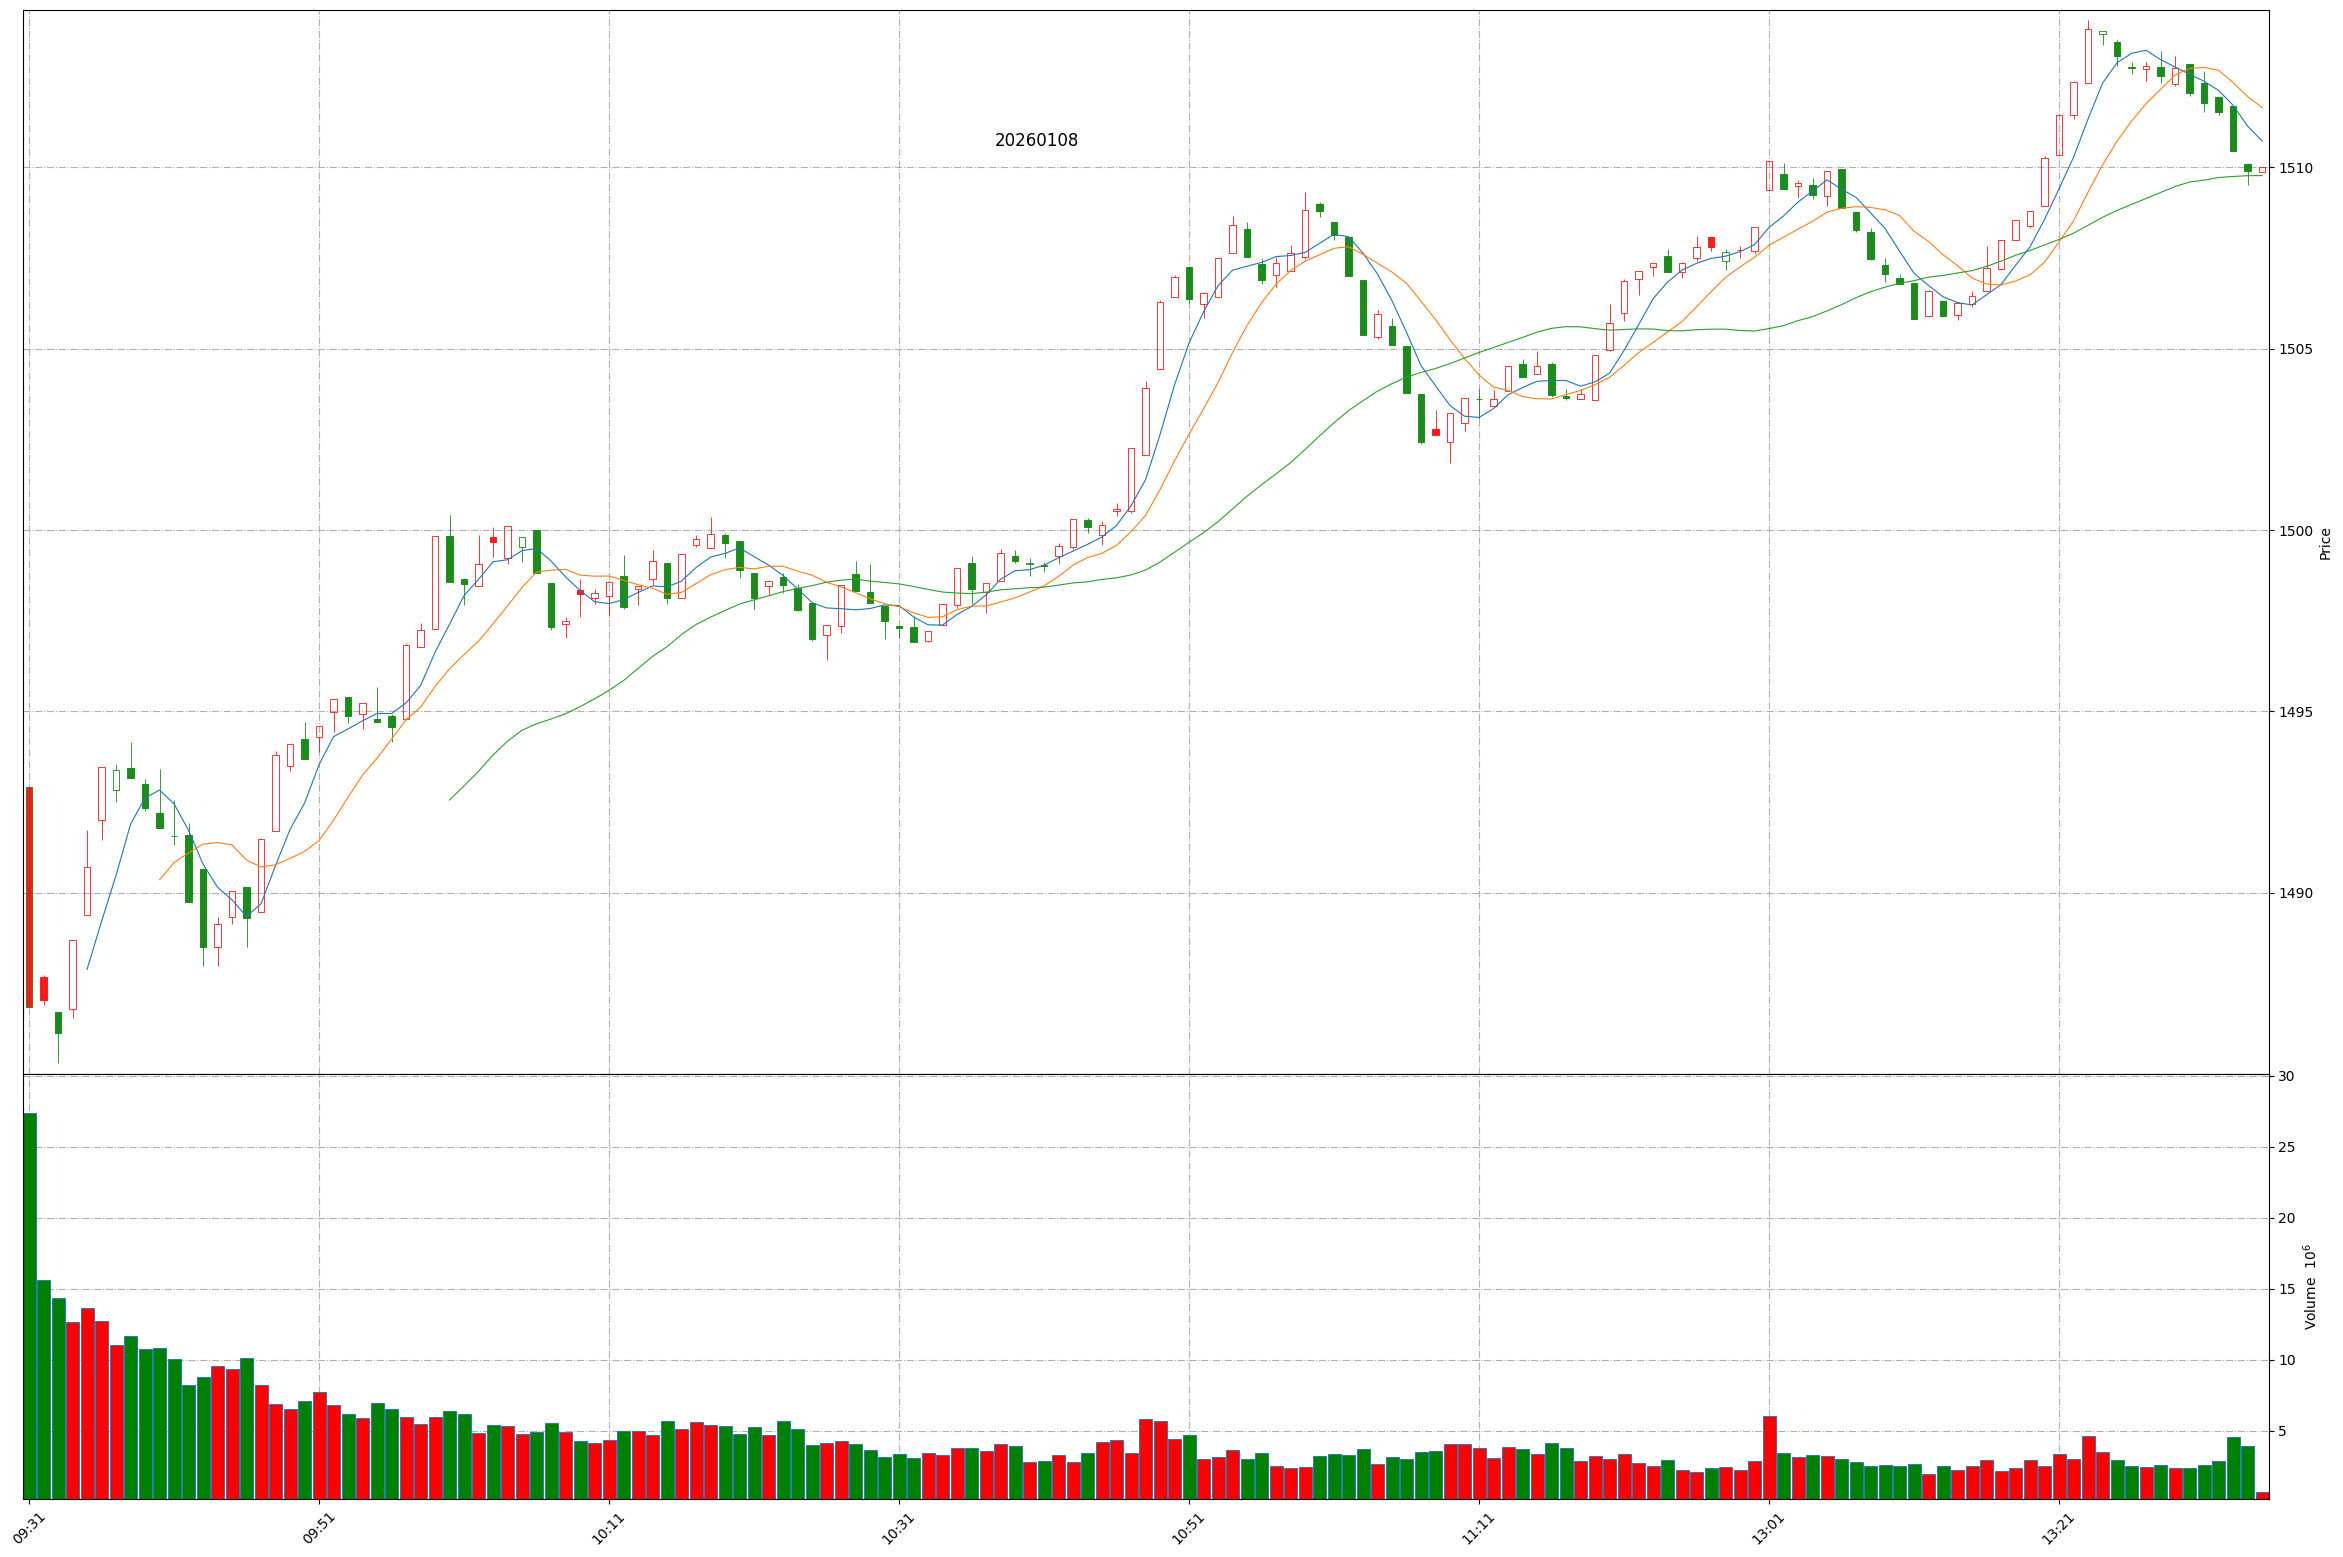
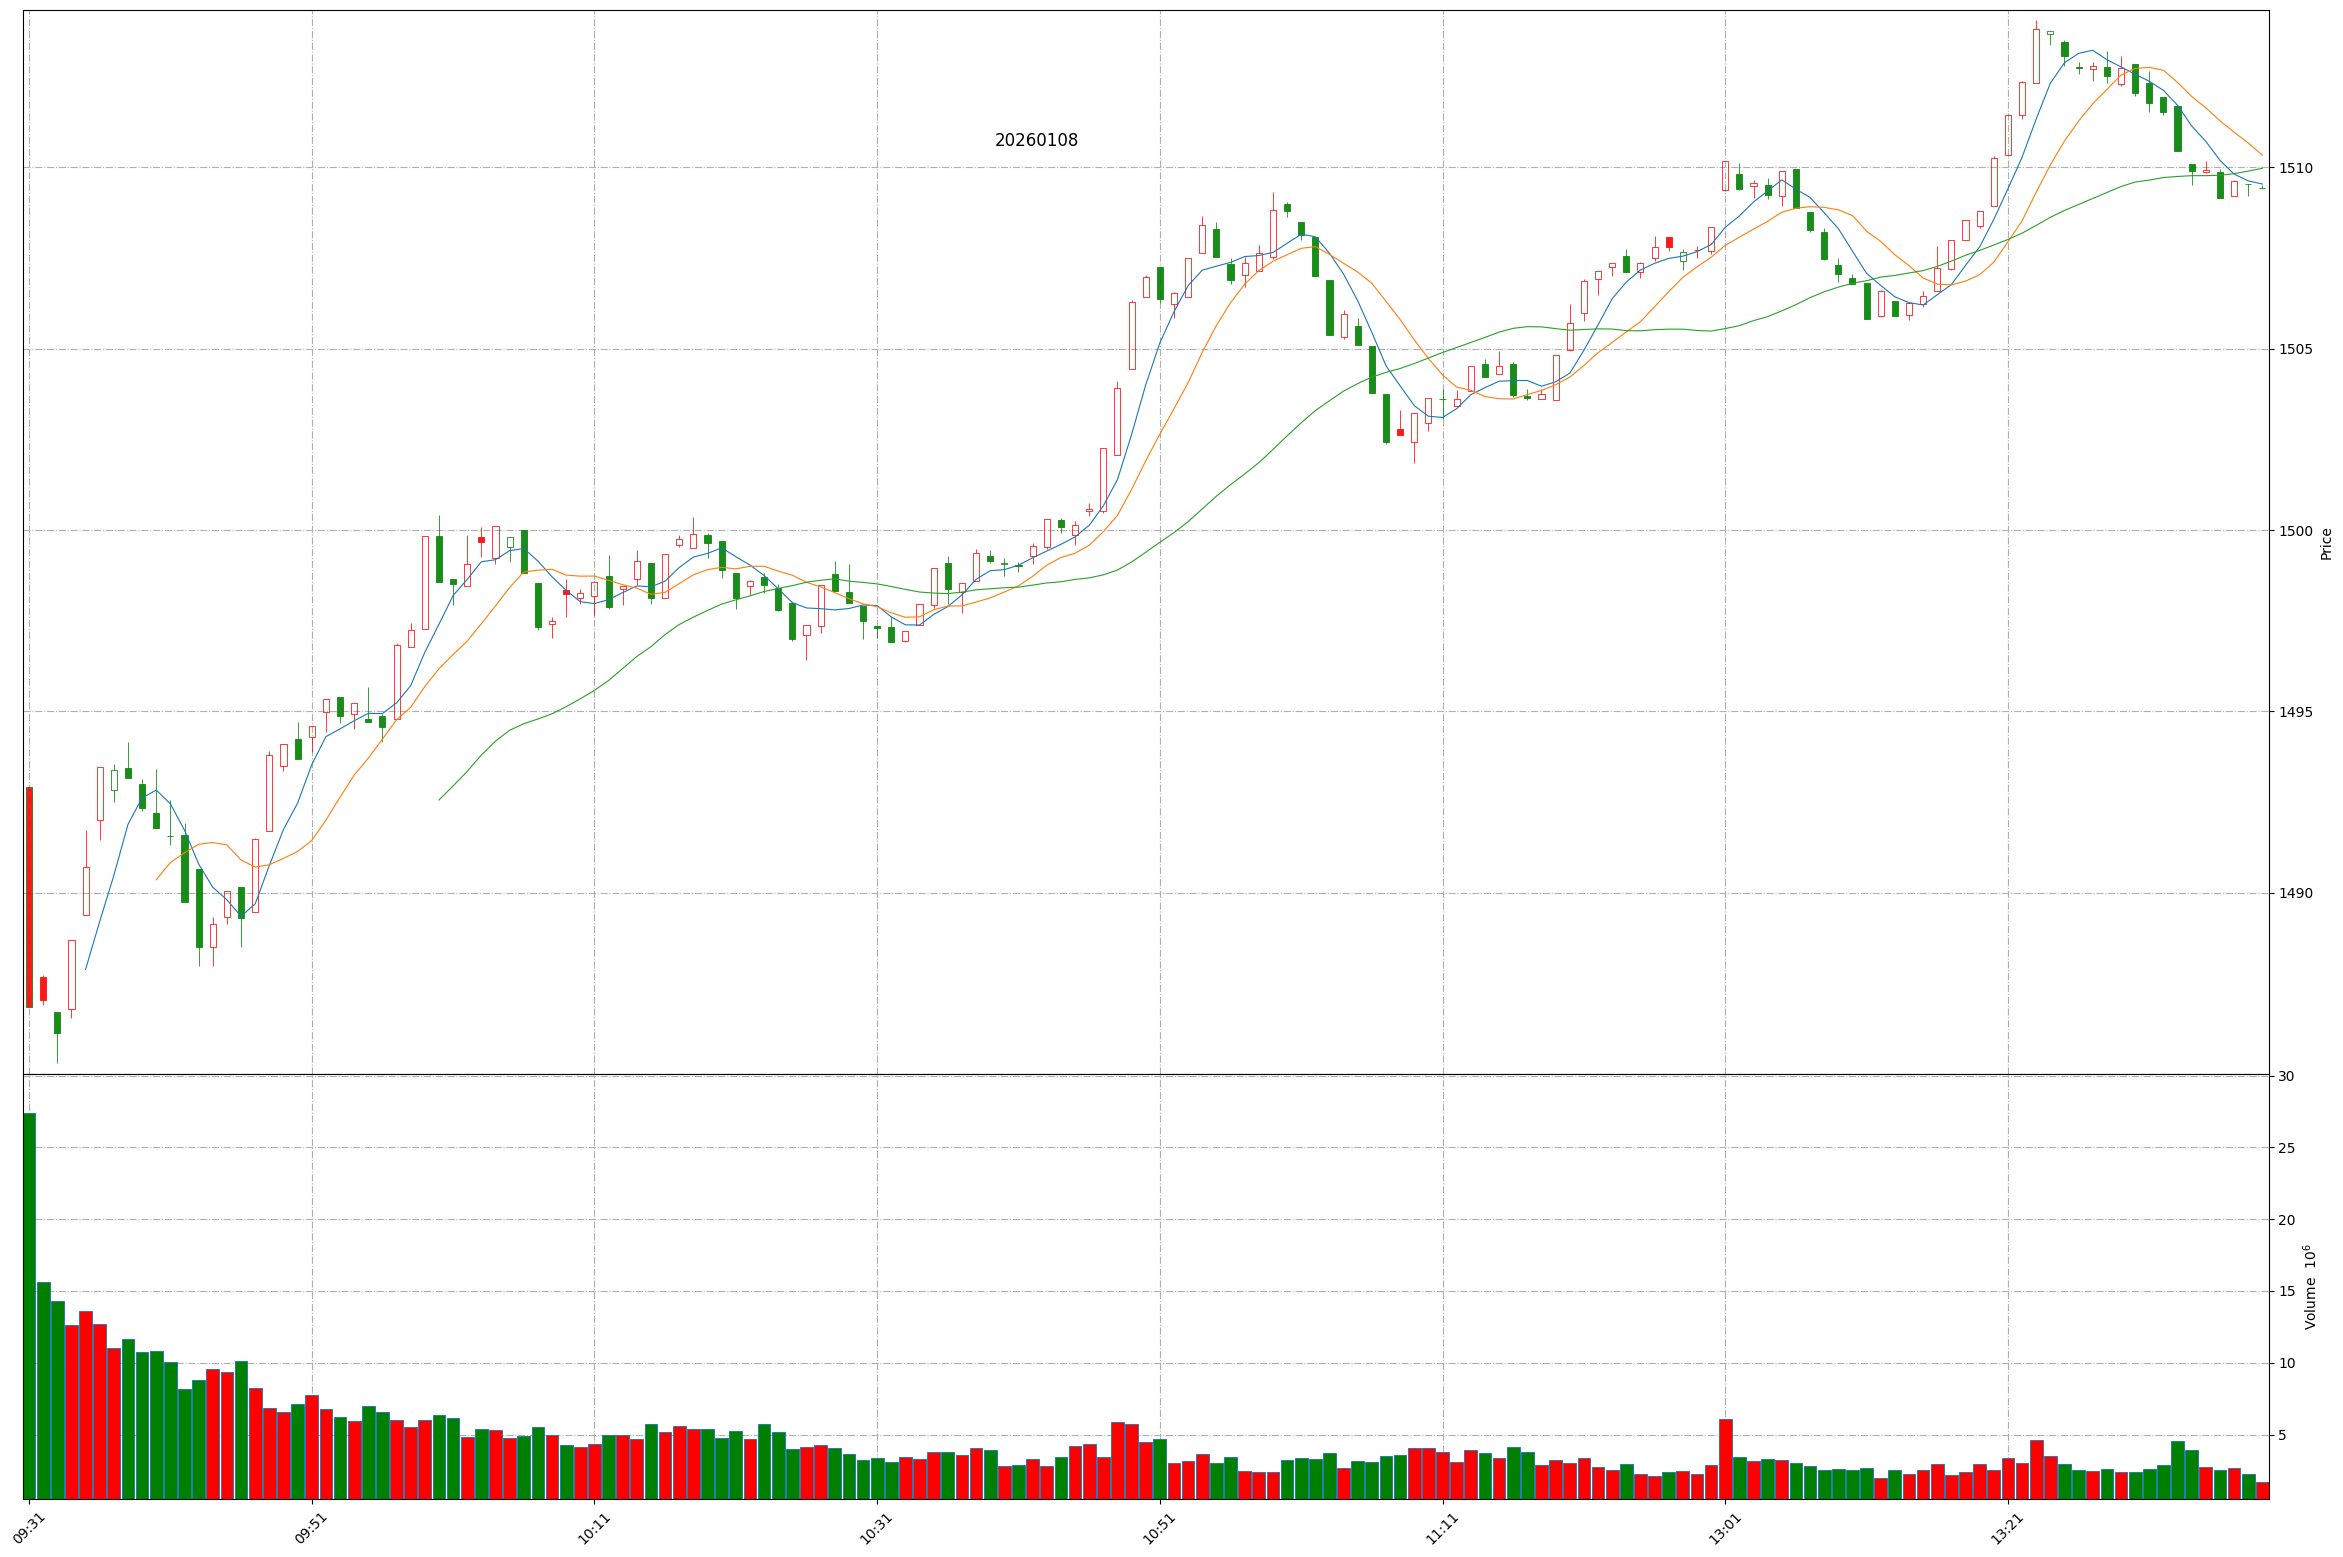
Github action update at 2026-01-08 13:39:02.

diff --git a/README.md b/README.md
@@ -1,11 +1,11 @@
 
 # Daily-A-share-market-quotes 每日 A 股指数（5min 更新）- 20260108
 
-### 上证指数 20260108 13:34
+### 上证指数 20260108 13:39
 ![](./fig/2026/1/20260108-sh000001.png)
 
-### 深证成指 20260108 13:34
+### 深证成指 20260108 13:39
 ![](./fig/2026/1/20260108-sz399001.png)
 
-### 北证50 20260108 13:34
+### 北证50 20260108 13:39
 ![](./fig/2026/1/20260108-bj899050.png)
